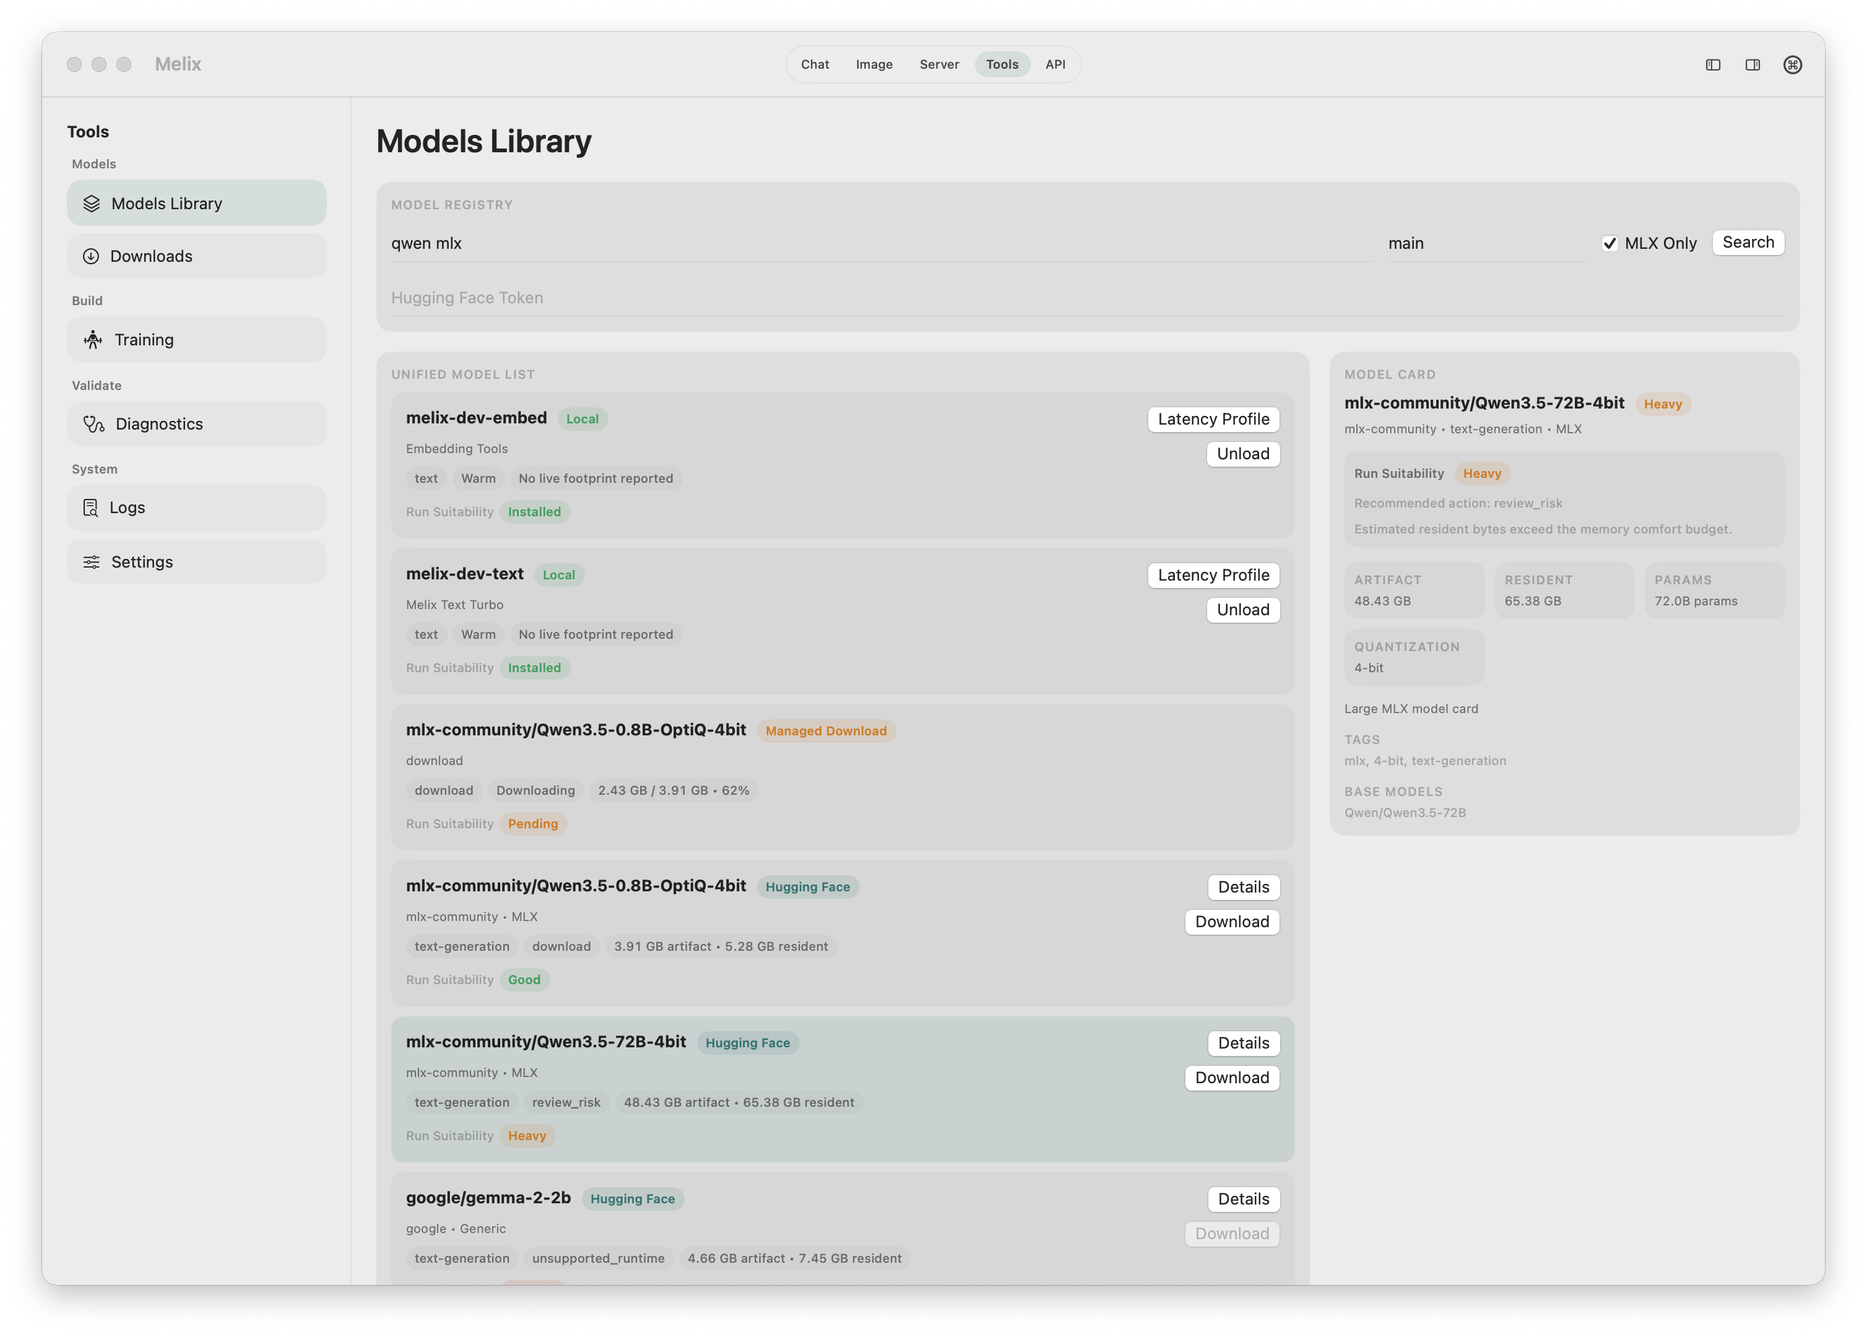
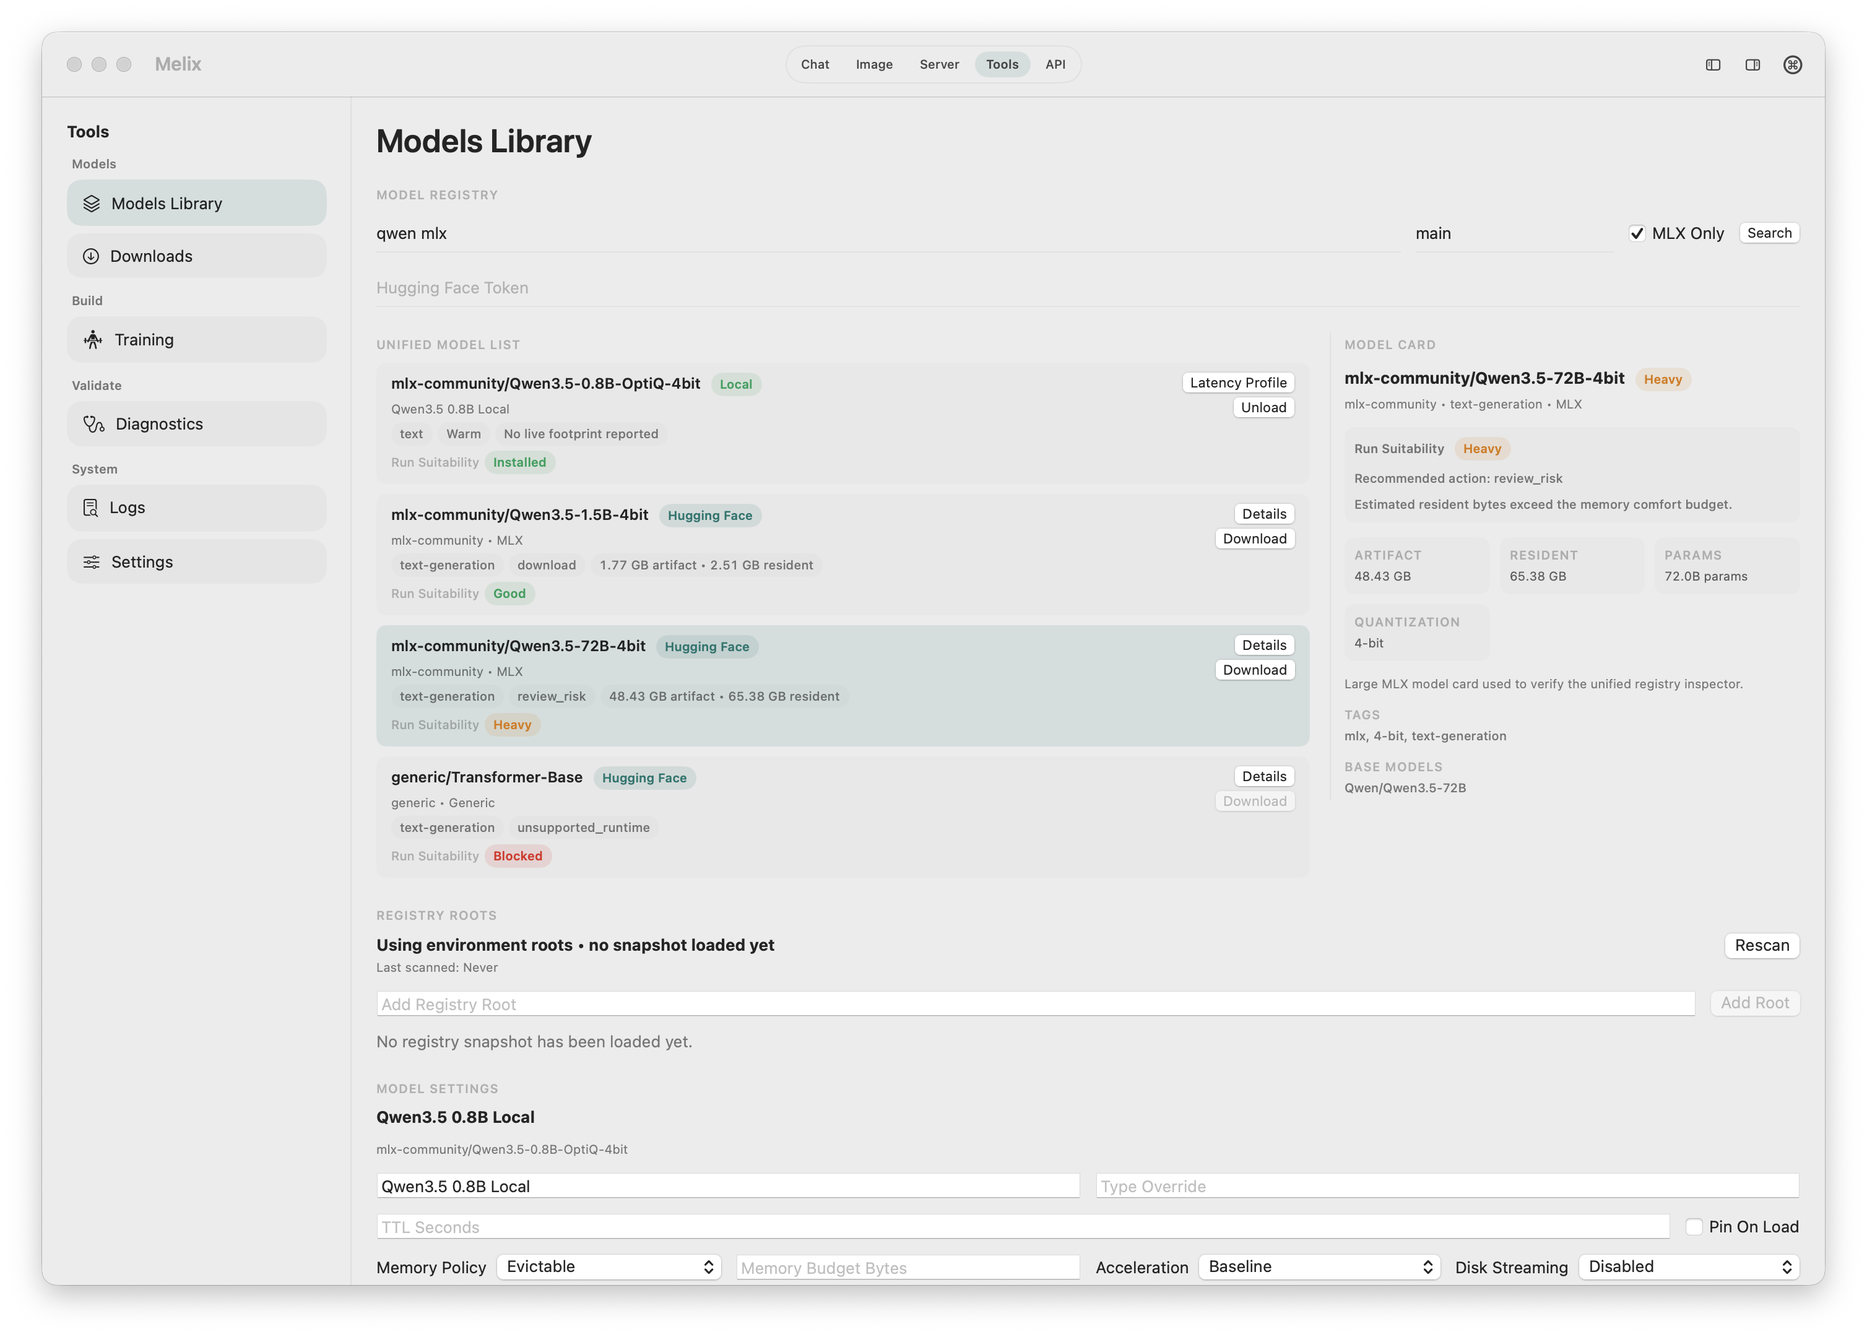
Align model registry with design guide

diff --git a/apps/macos-menubar/Sources/AppMain/Dashboard/DesktopFoundationView.swift b/apps/macos-menubar/Sources/AppMain/Dashboard/DesktopFoundationView.swift
@@ -125,7 +125,7 @@ struct DesktopModelsTabView: View {
 
     var body: some View {
         VStack(alignment: .leading, spacing: MelixDesignTokens.Spacing.lg) {
-            MelixSectionCard("Model Registry") {
+            DesktopRegistryBroadsheetSection("Model Registry") {
                 VStack(alignment: .leading, spacing: MelixDesignTokens.Spacing.md) {
                     HStack(alignment: .center, spacing: MelixDesignTokens.Spacing.md) {
                         DesktopRegistryTextField(
@@ -153,6 +153,7 @@ struct DesktopModelsTabView: View {
                         .toggleStyle(.checkbox)
                         Button("Search", action: searchHubModelsAction())
                             .buttonStyle(.borderedProminent)
+                            .controlSize(.small)
                             .fixedSize(horizontal: true, vertical: false)
                     }
 
@@ -180,7 +181,7 @@ struct DesktopModelsTabView: View {
             DesktopRegistryRootsSectionView(viewModel: viewModel)
 
             if let primaryModel = viewModel.primaryModel {
-                MelixSectionCard("Model Settings") {
+                DesktopRegistryBroadsheetSection("Model Settings") {
                     VStack(alignment: .leading, spacing: 12) {
                         Text(primaryModel.displayName)
                             .font(.headline)
@@ -508,6 +509,26 @@ private struct DesktopRegistrySecureField: View {
     }
 }
 
+private struct DesktopRegistryBroadsheetSection<Content: View>: View {
+    let title: String
+    @ViewBuilder let content: () -> Content
+
+    init(_ title: String, @ViewBuilder content: @escaping () -> Content) {
+        self.title = title
+        self.content = content
+    }
+
+    var body: some View {
+        VStack(alignment: .leading, spacing: MelixDesignTokens.Spacing.sm) {
+            Text(title).melixSectionLabel()
+            content()
+                .frame(maxWidth: .infinity, alignment: .leading)
+        }
+        .padding(.vertical, MelixDesignTokens.Spacing.xs)
+        .frame(maxWidth: .infinity, alignment: .leading)
+    }
+}
+
 struct DesktopModelRegistryEntriesView: View {
     let viewModel: RuntimeViewModel
 
@@ -537,7 +558,7 @@ struct DesktopModelRegistryEntriesView: View {
     }
 
     private var registryList: some View {
-        MelixSectionCard("Unified Model List") {
+        DesktopRegistryBroadsheetSection("Unified Model List") {
             VStack(alignment: .leading, spacing: MelixDesignTokens.Spacing.sm) {
                 if entries.isEmpty {
                     Text("No registry entries.")
@@ -562,7 +583,7 @@ struct DesktopModelRegistryEntriesView: View {
     }
 
     private var modelCard: some View {
-        MelixSectionCard("Model Card") {
+        DesktopRegistryInspectorPane("Model Card") {
             if let card = selectedCard {
                 DesktopHubModelCardContent(card: card)
             } else if let entry = entries.first {
@@ -641,6 +662,32 @@ struct DesktopModelRegistryEntriesView: View {
     }
 }
 
+private struct DesktopRegistryInspectorPane<Content: View>: View {
+    let title: String
+    @ViewBuilder let content: () -> Content
+
+    init(_ title: String, @ViewBuilder content: @escaping () -> Content) {
+        self.title = title
+        self.content = content
+    }
+
+    var body: some View {
+        VStack(alignment: .leading, spacing: MelixDesignTokens.Spacing.md) {
+            Text(title).melixSectionLabel()
+            content()
+                .frame(maxWidth: .infinity, alignment: .leading)
+        }
+        .padding(.leading, MelixDesignTokens.Spacing.md)
+        .padding(.vertical, MelixDesignTokens.Spacing.xs)
+        .frame(maxWidth: .infinity, alignment: .leading)
+        .overlay(alignment: .leading) {
+            Rectangle()
+                .fill(Color.secondary.opacity(MelixDesignTokens.StrokeOpacity.interactive))
+                .frame(width: 1)
+        }
+    }
+}
+
 private struct DesktopRegistryEntryRowView: View {
     let entry: RuntimeRegistryEntryState
     let localModel: RuntimeModelRow?
@@ -651,11 +698,11 @@ private struct DesktopRegistryEntryRowView: View {
     let toggleLoad: (() -> Void)?
 
     var body: some View {
-        HStack(alignment: .top, spacing: MelixDesignTokens.Spacing.md) {
-            VStack(alignment: .leading, spacing: MelixDesignTokens.Spacing.sm) {
+        HStack(alignment: .top, spacing: MelixDesignTokens.Spacing.lg) {
+            VStack(alignment: .leading, spacing: MelixDesignTokens.Spacing.xs) {
                 HStack(alignment: .firstTextBaseline, spacing: MelixDesignTokens.Spacing.sm) {
                     Text(entry.title)
-                        .font(.headline)
+                        .font(.callout.weight(.semibold))
                         .lineLimit(1)
                         .truncationMode(.middle)
                     DesktopRegistryBadgeView(
@@ -706,33 +753,58 @@ private struct DesktopRegistryEntryRowView: View {
 
             Spacer(minLength: MelixDesignTokens.Spacing.md)
 
-            VStack(alignment: .trailing, spacing: MelixDesignTokens.Spacing.sm) {
+            VStack(alignment: .trailing, spacing: MelixDesignTokens.Spacing.xs) {
                 if let latencyProfile {
                     Button("Latency Profile", action: latencyProfile)
                         .buttonStyle(.bordered)
+                        .controlSize(.small)
                         .fixedSize(horizontal: true, vertical: false)
                 }
                 if let localModel, let toggleLoad {
                     Button(localModel.actionTitle, action: toggleLoad)
                         .buttonStyle(.bordered)
+                        .controlSize(.small)
                         .fixedSize(horizontal: true, vertical: false)
                 }
                 if let inspect {
                     Button("Details", action: inspect)
                         .buttonStyle(.bordered)
+                        .controlSize(.small)
                         .fixedSize(horizontal: true, vertical: false)
                 }
                 if let download {
                     Button("Download", action: download)
                         .buttonStyle(.bordered)
+                        .controlSize(.small)
                         .disabled(!entry.canDownload)
                         .fixedSize(horizontal: true, vertical: false)
                 }
             }
         }
-        .padding(MelixDesignTokens.Spacing.md)
+        .padding(.horizontal, MelixDesignTokens.Spacing.md)
+        .padding(.vertical, MelixDesignTokens.Spacing.sm)
         .frame(maxWidth: .infinity, alignment: .leading)
-        .melixSelection(isSelected)
+        .desktopRegistryRowBackground(isSelected)
+    }
+}
+
+private struct DesktopRegistryRowBackground: ViewModifier {
+    let isSelected: Bool
+
+    func body(content: Content) -> some View {
+        content
+            .background(
+                isSelected
+                    ? MelixDesignTokens.accent.opacity(MelixDesignTokens.AccentOpacity.selected)
+                    : Color.secondary.opacity(DesktopRegistryVisuals.rowSurfaceOpacity),
+                in: RoundedRectangle(cornerRadius: MelixDesignTokens.Radius.md, style: .continuous)
+            )
+    }
+}
+
+private extension View {
+    func desktopRegistryRowBackground(_ isSelected: Bool) -> some View {
+        modifier(DesktopRegistryRowBackground(isSelected: isSelected))
     }
 }
 
@@ -886,7 +958,7 @@ private struct DesktopRegistryRunSuitabilityEvidenceView: View {
             if !recommendedAction.isEmpty {
                 Text("Recommended action: \(recommendedAction)")
                     .font(.caption2)
-                    .foregroundStyle(.tertiary)
+                    .foregroundStyle(.secondary)
                     .lineLimit(2)
             }
             if gated {
@@ -897,15 +969,15 @@ private struct DesktopRegistryRunSuitabilityEvidenceView: View {
             ForEach(reasons.prefix(4), id: \.self) { reason in
                 Text(reason)
                     .font(.caption2)
-                    .foregroundStyle(.tertiary)
+                    .foregroundStyle(.secondary)
                     .lineLimit(2)
             }
         }
         .frame(maxWidth: .infinity, alignment: .leading)
         .padding(MelixDesignTokens.Spacing.sm)
         .background(
-            Color.secondary.opacity(MelixDesignTokens.SurfaceOpacity.card),
-            in: RoundedRectangle(cornerRadius: MelixDesignTokens.Radius.lg, style: .continuous)
+            Color.secondary.opacity(DesktopRegistryVisuals.metricSurfaceOpacity),
+            in: RoundedRectangle(cornerRadius: MelixDesignTokens.Radius.md, style: .continuous)
         )
     }
 }
@@ -919,15 +991,15 @@ private struct DesktopRegistryMetricTileView: View {
             Text(title).melixSectionLabel()
             Text(value.isEmpty ? "unknown" : value)
                 .font(.caption.monospacedDigit())
-                .foregroundStyle(.secondary)
+                .foregroundStyle(Color.primary.opacity(0.72))
                 .lineLimit(2)
                 .truncationMode(.middle)
         }
         .padding(MelixDesignTokens.Spacing.sm)
         .frame(maxWidth: .infinity, alignment: .leading)
         .background(
-            Color.secondary.opacity(MelixDesignTokens.SurfaceOpacity.card),
-            in: RoundedRectangle(cornerRadius: MelixDesignTokens.Radius.lg, style: .continuous)
+            Color.secondary.opacity(DesktopRegistryVisuals.metricSurfaceOpacity),
+            in: RoundedRectangle(cornerRadius: MelixDesignTokens.Radius.md, style: .continuous)
         )
     }
 }
@@ -942,7 +1014,7 @@ private struct DesktopRegistryTokenListView: View {
                 Text(title).melixSectionLabel()
                 Text(values.joined(separator: ", "))
                     .font(.caption2)
-                    .foregroundStyle(.tertiary)
+                    .foregroundStyle(.secondary)
                     .lineLimit(3)
             }
         }
@@ -980,13 +1052,17 @@ private struct DesktopRegistryMetadataChipView: View {
             .padding(.horizontal, 7)
             .padding(.vertical, 3)
             .background(
-                Color.secondary.opacity(MelixDesignTokens.SurfaceOpacity.card),
+                Color.secondary.opacity(DesktopRegistryVisuals.chipSurfaceOpacity),
                 in: Capsule()
             )
     }
 }
 
 private enum DesktopRegistryVisuals {
+    static let rowSurfaceOpacity = 0.032
+    static let metricSurfaceOpacity = 0.032
+    static let chipSurfaceOpacity = 0.035
+
     static func fitColor(_ text: String) -> Color {
         let normalized = text.trimmingCharacters(in: .whitespacesAndNewlines).lowercased()
         switch normalized {
@@ -1022,7 +1098,7 @@ private struct DesktopRegistryRootsSectionView: View {
     let viewModel: RuntimeViewModel
 
     var body: some View {
-        MelixSectionCard("Registry Roots") {
+        DesktopRegistryBroadsheetSection("Registry Roots") {
             VStack(alignment: .leading, spacing: 12) {
                 HStack(alignment: .firstTextBaseline) {
                     VStack(alignment: .leading, spacing: 4) {

diff --git a/apps/macos-menubar/Tests/MenuBarTests/DesktopFoundationViewTests.swift b/apps/macos-menubar/Tests/MenuBarTests/DesktopFoundationViewTests.swift
@@ -803,9 +803,17 @@ struct DesktopFoundationViewTests {
         #expect(modelsTabSource.contains("List(") == false)
         #expect(modelsTabSource.contains("GroupBox(") == false)
         #expect(shellSource.contains("DisclosureGroup(\"Models Library\")") == false)
-        #expect(modelsTabSource.contains("MelixSectionCard(\"Model Registry\")"))
-        #expect(registrySource.contains("MelixSectionCard(\"Unified Model List\")"))
-        #expect(registrySource.contains("MelixSectionCard(\"Model Card\")"))
+        #expect(modelsTabSource.contains("MelixSectionCard(\"Model Registry\")") == false)
+        #expect(modelsTabSource.contains("MelixSectionCard(\"Model Settings\")") == false)
+        #expect(registrySource.contains("MelixSectionCard(\"Unified Model List\")") == false)
+        #expect(registrySource.contains("MelixSectionCard(\"Model Card\")") == false)
+        #expect(modelsSource.contains("MelixSectionCard(\"Registry Roots\")") == false)
+        #expect(modelsTabSource.contains("DesktopRegistryBroadsheetSection(\"Model Registry\")"))
+        #expect(modelsTabSource.contains("DesktopRegistryBroadsheetSection(\"Model Settings\")"))
+        #expect(registrySource.contains("DesktopRegistryBroadsheetSection(\"Unified Model List\")"))
+        #expect(registrySource.contains("DesktopRegistryInspectorPane(\"Model Card\")"))
+        #expect(modelsSource.contains("DesktopRegistryBroadsheetSection(\"Registry Roots\")"))
+        #expect(registrySource.contains("DesktopRegistryRowBackground"))
         #expect(registrySource.contains("Run Suitability"))
     }
 

diff --git a/docs/plans/2026-05-01-model-registry-local-fit.md b/docs/plans/2026-05-01-model-registry-local-fit.md
@@ -59,13 +59,21 @@ Model Card details include a Run Suitability evidence block with artifact size, 
 
 Download is disabled for `blocked` Hub rows. `heavy` rows remain downloadable and display the risk classification.
 
-The Models workspace uses the shared Melix desktop primitives rather than
-native SwiftUI structural containers for the primary Registry surface:
+The Models workspace follows the design-system "Digital Broadsheet" treatment
+for the primary Registry surface:
 
-- `MelixSectionCard("Model Registry")` owns Hub search inputs and the single primary search action.
-- `MelixSectionCard("Unified Model List")` owns the mixed local/download/Hub rows with compact source and suitability badges.
-- `MelixSectionCard("Model Card")` owns local summary details or Hub card metadata, including Run Suitability evidence.
+- `DesktopRegistryBroadsheetSection("Model Registry")` owns Hub search inputs and the single primary search action without an outer card fill.
+- `DesktopRegistryBroadsheetSection("Unified Model List")` owns the mixed local/download/Hub rows with compact source and suitability badges.
+- `DesktopRegistryRowBackground` provides the only list-row fill: a near-invisible neutral wash for inactive rows and the standard accent wash for the selected row.
+- `DesktopRegistryInspectorPane("Model Card")` renders Hub or local details as an inspector with a subtle leading separator, not a nested card.
+- Registry Roots and Model Settings use the same broadsheet section treatment so the first viewport does not regress into a stack of large gray cards.
 - The Tools workspace opens Models Library directly; it is not nested under an additional disclosure group.
+
+Real app screenshots for this state live under
+`artifacts/model-registry-local-fit/2026-05-01/`:
+
+- `model-registry-real-app.png`
+- `model-registry-real-app-window.png`
 
 ## Probes
 
@@ -90,9 +98,11 @@ Completed so far:
 - `SWIFTPM_DISABLE_SANDBOX=1 swift test --package-path apps/macos-menubar --filter 'DesktopFoundationViewTests/(modelsRegistryUsesDesignSystemWorkspacePrimitives|modelsTabRendersHuggingFaceHubIngressState|modelsTabRendersHubModelCardRunSuitabilityEvidence)'`
 - `SWIFTPM_DISABLE_SANDBOX=1 swift test --package-path apps/macos-menubar --filter 'RuntimeViewModelTests|DesktopFoundationViewTests'`
 - `SWIFTPM_DISABLE_SANDBOX=1 swift test --package-path apps/macos-menubar --filter 'DesktopFoundationViewTests/(modelRegistryRendersEmptyStateAndPlaceholderCard|modelRegistryCoversCacheMissingManagedBlockedUnknownAndGatedBranches)'`
+- `SWIFTPM_DISABLE_SANDBOX=1 swift test --package-path apps/macos-menubar --filter 'DesktopFoundationViewTests/(modelsRegistryUsesDesignSystemWorkspacePrimitives|modelsTabRendersHuggingFaceHubIngressState|modelsTabRendersHubModelCardRunSuitabilityEvidence|modelRegistryRendersEmptyStateAndPlaceholderCard|modelRegistryCoversCacheMissingManagedBlockedUnknownAndGatedBranches|modelsTabRendersModelActionsAndSettings)'`
+- `SWIFTPM_DISABLE_SANDBOX=1 swift test --package-path apps/macos-menubar --filter 'DesktopFoundationViewTests/(modelsRegistryUsesDesignSystemWorkspacePrimitives|modelsTabRendersHuggingFaceHubIngressState|modelsTabRendersHubModelCardRunSuitabilityEvidence|modelRegistryRendersEmptyStateAndPlaceholderCard|modelRegistryCoversCacheMissingManagedBlockedUnknownAndGatedBranches|modelsTabRendersModelActionsAndSettings|modelsTabRendersRegistryRootManagement)'`
 - `SWIFTPM_DISABLE_SANDBOX=1 swift test --package-path apps/macos-menubar --enable-code-coverage --filter 'RuntimeViewModelTests|DesktopFoundationViewTests'`
 - `python3 scripts/swift_changed_line_coverage.py --binary apps/macos-menubar/.build/arm64-apple-macosx/debug/MelixMacOSMenubarPackageTests.xctest/Contents/MacOS/MelixMacOSMenubarPackageTests --profdata apps/macos-menubar/.build/arm64-apple-macosx/debug/codecov/default.profdata apps/macos-menubar/Sources/AppMain/Dashboard/DesktopFoundationView.swift apps/macos-menubar/Sources/AppMain/Dashboard/DesktopWorkspaceShellView.swift apps/macos-menubar/Tests/MenuBarTests/DesktopFoundationViewTests.swift`
-- `SWIFTPM_DISABLE_SANDBOX=1 swift test --package-path apps/macos-menubar --filter TempLoRAScreenshotTests/renderCurrentModelRegistryScreenshot` (temporary local screenshot-rendering test; removed before commit)
+- `SWIFTPM_DISABLE_SANDBOX=1 swift test --package-path apps/macos-menubar --filter TempLoRAScreenshotTests/renderCurrentModelRegistryScreenshots` (temporary local screenshot-rendering test; removed before commit)
 - `swift test --package-path apps/macos-menubar --filter DesktopFoundationViewTests/modelsTabRendersHuggingFaceHubIngressState`
 - `swift test --package-path apps/macos-menubar --filter DesktopFoundationViewTests/modelsTabRendersHubModelCardRunSuitabilityEvidence`
 - `swift package --package-path services/control-plane-swift clean`
@@ -104,10 +114,10 @@ Full Swift verification:
 - `make swift-test` did not complete successfully. It passed the protocol package and many control-plane/menu-bar suites, then failed in an existing launch bootstrap test: `AppMainBootstrapTests/launchLive uses the shared launcher path` with `expected launchLive handshake to complete`.
 - A subsequent isolated rerun of that test hit a package build-cache compiler mismatch in `apps/macos-menubar/.build` (`module compiled with Swift 6.3.1 cannot be imported by the Swift 6.2.3 compiler`), so the isolated rerun did not reach the test body.
 
-Coverage: changed-line coverage for the touched menu-bar UI files is 98.24%
+Coverage: changed-line coverage for the touched menu-bar UI files is 100.00%
 overall:
 
-- `apps/macos-menubar/Sources/AppMain/Dashboard/DesktopFoundationView.swift`: 97.78% (441/451)
-- `apps/macos-menubar/Sources/AppMain/Dashboard/DesktopWorkspaceShellView.swift`: 100.00% (1/1)
-- `apps/macos-menubar/Tests/MenuBarTests/DesktopFoundationViewTests.swift`: 99.43% (173/174)
-- Total: 98.24% (615/626)
+- `apps/macos-menubar/Sources/AppMain/Dashboard/DesktopFoundationView.swift`: 100.00% (70/70)
+- `apps/macos-menubar/Sources/AppMain/Dashboard/DesktopWorkspaceShellView.swift`: 100.00% (0/0 changed executable lines)
+- `apps/macos-menubar/Tests/MenuBarTests/DesktopFoundationViewTests.swift`: 100.00% (11/11)
+- Total: 100.00% (81/81)
